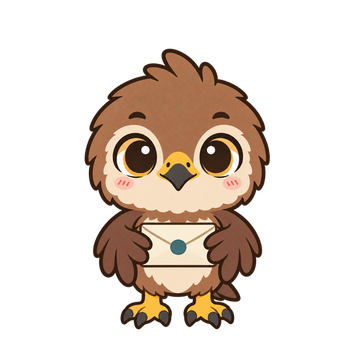
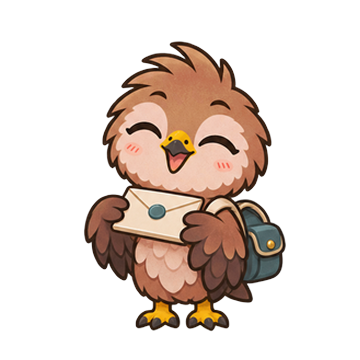
D539：小屋全面換上統一 v3（GPT 1440）——四間換裝房（臥室、花園、廚房、學校）待機眨眼／揮手／打瞌睡序列，客廳順羽、打包、返家持信改成序列；舊單張圖（打包、返家、開心、打招呼、道歉、各房間三姿勢）以 v3 代表格重製，同尺寸、腳底對齊，出發／回家動畫與便當幫手等處一起換新。
Claude-Session: https://claude.ai/code/session_01HH7aCh2DkeBgrqbKrCUAfc

Changed region(s): [[0.2139, 0.0917, 0.7944, 0.9167]]

diff --git a/travel/index.html b/travel/index.html
@@ -1138,8 +1138,10 @@ const PET = (() => {
       const scale = 0.86 + (p.y - AREA.y0) / (AREA.y1 - AREA.y0) * 0.16, w = 34 * scale;
       const rid = ROOM().pet || ROOM().id, key = rid !== 'living' ? 'kite_' + rid + '_' + (p.act === 'nap' ? 'nap' : p.pose === 'wave' ? 'wave' : 'home') : p.act === 'nap' ? 'kite_nap' : p.act === 'preen' && preenImg.ok ? 'kite_home_preen' : p.pose === 'wave' ? 'kite_wave' : p.pose === 'pack' ? 'kite_pack' : p.pose === 'back' ? 'kite_back' : 'kite_home';      // v0.16：其他四間用 G-47 第二批換裝圖      // v0.14：打瞌睡換閉眼圖
       let sh = null;      /* D536：客廳換上小鳶統一 v3 Q 版序列（GPT 1405）：走路、跳、睡、待機眨眼、揮手；換裝房間與順羽／打包／返家照舊 */
-      if (rid === 'living' && !calm) { if (key === 'kite_nap') sh = ['sleep', 2, Math.floor(p.t * 1.2) % 2]; else if (key === 'kite_wave') sh = ['wave', 4, Math.floor(p.t * 6) % 4]; else if (key === 'kite_home') { if (p.act === 'walk') sh = ['walk', 4, Math.floor(p.t * 8) % 4]; else if (p.act === 'jump') { const u = Math.min(1, p.t / p.dur); sh = ['jump', 4, u < 0.2 ? 0 : u < 0.45 ? 1 : u < 0.8 ? 2 : 3]; } else sh = ['idle', 4, [0, 0, 0, 0, 1, 1, 0, 0, 0, 2, 3, 0][Math.floor(p.t * 4) % 12]]; } }
-      if (sh) { if (sh[0] === 'jump') bob = 0; if (sh[0] === 'walk') rot *= 0.3; if (sh[0] === 'sleep') rot = 0; const K = 'kh_' + sh[0], S3 = 1.17; if (b.dataset.k !== K) { b.style.backgroundImage = 'url(assets/kite_home_' + sh[0] + '.webp)'; b.style.backgroundSize = sh[1] * S3 * 100 + '% ' + S3 * 100 + '%'; b.dataset.k = K; } b.style.backgroundPosition = (S3 * sh[2] + (S3 - 1) / 2) / (sh[1] * S3 - 1) * 100 + '% 53%'; }      // 新圖角色占格 68%、腳在 0.865：放大 1.17 倍、往上 9% 對齊舊圖腳底
+      const IDL = [0, 0, 0, 0, 1, 1, 0, 0, 0, 2, 3, 0][Math.floor(p.t * 4) % 12], HOLD = (n) => Math.min(n - 1, Math.floor(p.t * 5));
+      if (rid !== 'living' && !calm) { const m = key.match(/^kite_(bed|garden|kitchen|school)_(home|wave|nap)$/); if (m) sh = m[2] === 'nap' ? [m[1] + '_sleep', 2, Math.floor(p.t * 1.2) % 2] : m[2] === 'wave' ? [m[1] + '_wave', 4, Math.floor(p.t * 6) % 4] : [m[1] + '_idle', 4, IDL]; }      /* D539：四間換裝房也用 v3 序列（GPT 1440） */
+      if (rid === 'living' && !calm) { if (key === 'kite_home_preen') sh = ['home_preen', 4, Math.min(2, Math.floor(p.t * 6))]; else if (key === 'kite_pack') sh = ['home_pack', 4, HOLD(4)]; else if (key === 'kite_back') sh = ['home_back', 4, HOLD(4)]; else if (key === 'kite_nap') sh = ['sleep', 2, Math.floor(p.t * 1.2) % 2]; else if (key === 'kite_wave') sh = ['wave', 4, Math.floor(p.t * 6) % 4]; else if (key === 'kite_home') { if (p.act === 'walk') sh = ['walk', 4, Math.floor(p.t * 8) % 4]; else if (p.act === 'jump') { const u = Math.min(1, p.t / p.dur); sh = ['jump', 4, u < 0.2 ? 0 : u < 0.45 ? 1 : u < 0.8 ? 2 : 3]; } else sh = ['idle', 4, IDL]; } }
+      if (sh) { if (sh[0] === 'jump') bob = 0; if (sh[0] === 'walk') rot *= 0.3; if (sh[0] === 'sleep') rot = 0; const K = 'kh_' + sh[0], S3 = 1.17; if (b.dataset.k !== K) { b.style.backgroundImage = 'url(assets/kite_' + (sh[0].includes('_') ? '' : 'home_') + sh[0] + '.webp)'; b.style.backgroundSize = sh[1] * S3 * 100 + '% ' + S3 * 100 + '%'; b.dataset.k = K; } b.style.backgroundPosition = (S3 * sh[2] + (S3 - 1) / 2) / (sh[1] * S3 - 1) * 100 + '% 53%'; }      // 新圖角色占格 68%、腳在 0.865：放大 1.17 倍、往上 9% 對齊舊圖腳底
       else if (b.dataset.k !== key) { b.style.backgroundImage = 'url(assets/' + key + '.png)'; b.style.backgroundSize = ''; b.style.backgroundPosition = ''; b.dataset.k = key; }
       const hPct = w * ROOMDIM.w / ROOMDIM.h;      // 舞台實際寬高（fitRoom 算的），換算成高度的百分比
       b.style.width = w + '%'; b.style.left = (p.x - w / 2) + '%'; b.style.top = (p.y - hPct * 0.92) + '%';
